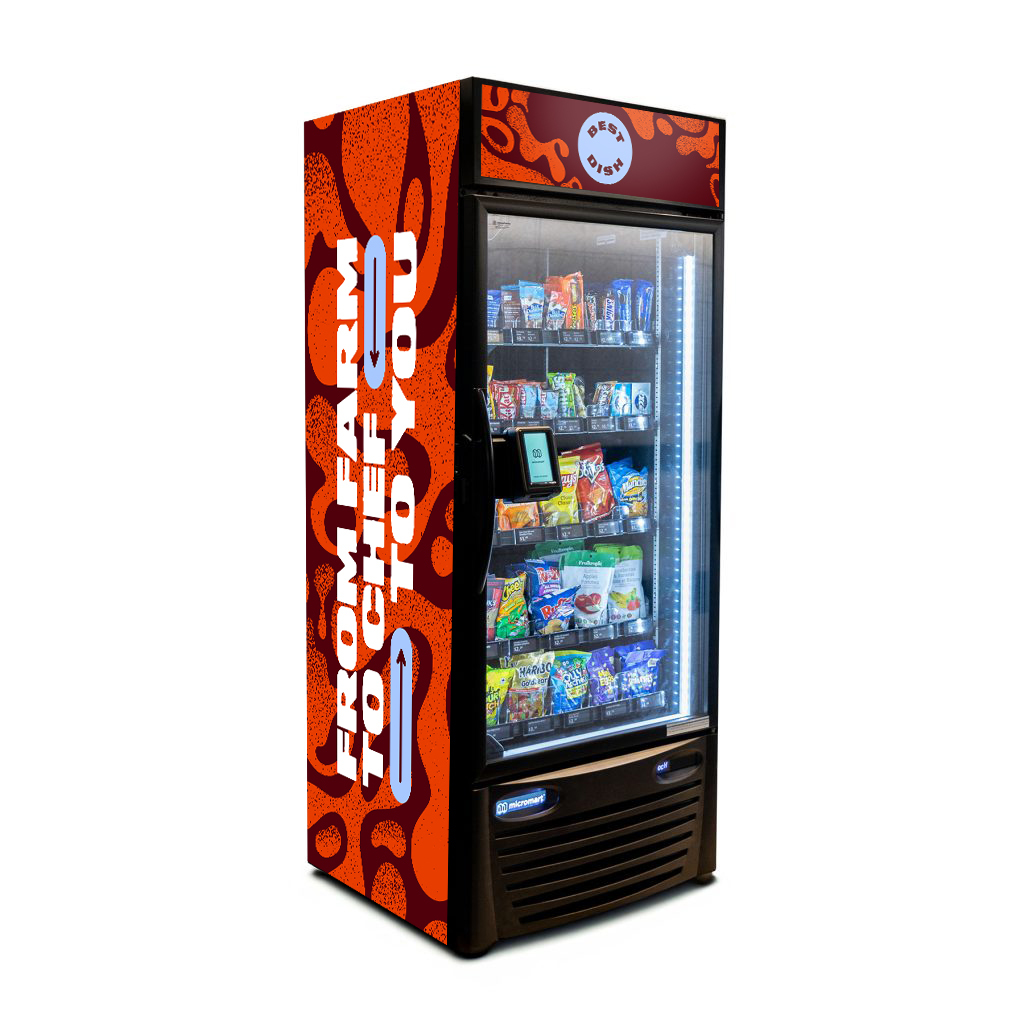
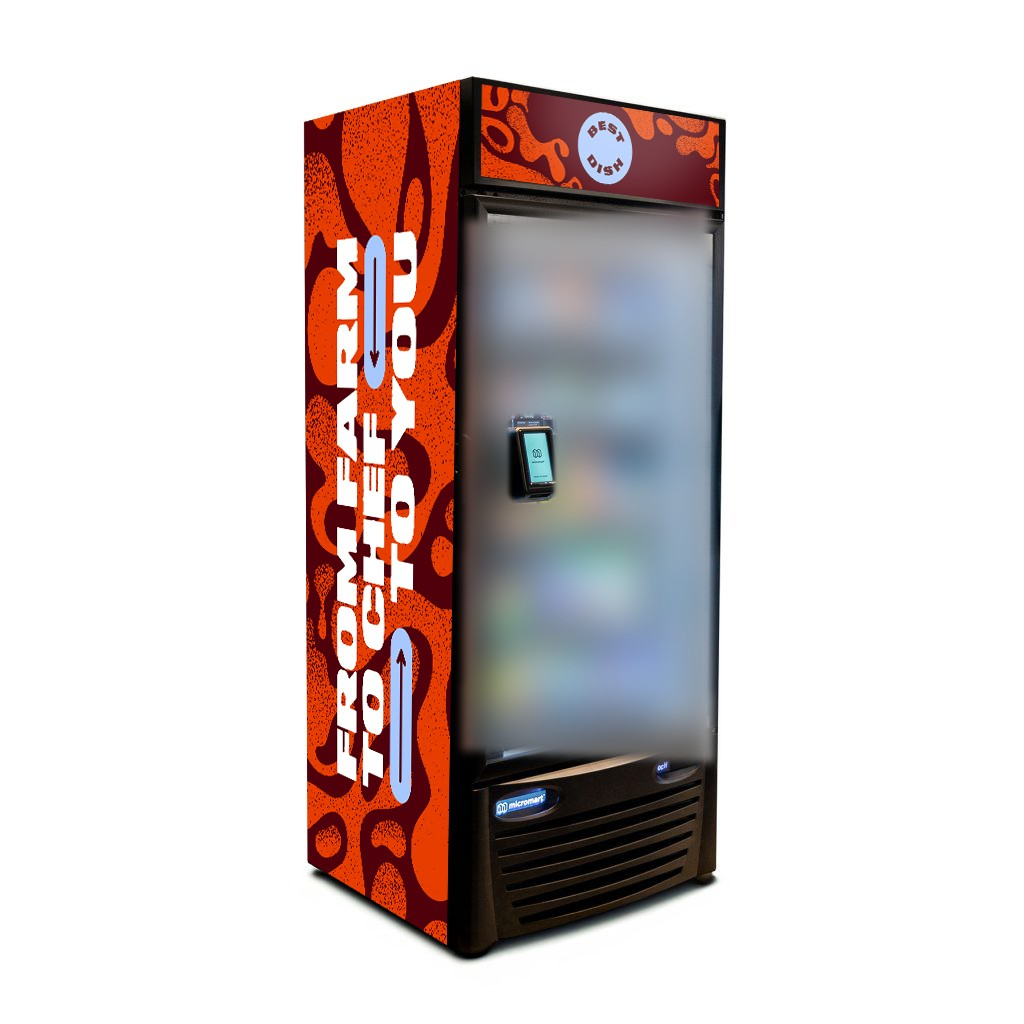
Fix portrait cropping; frost freezer glass
- Chef portraits (chefs grid + dish pages) crop from the top of the frame so heads stay in view
- Freezer mockup: frosted-glass blur over the interior so third-party snack products aren't visible; payment terminal kept sharp

diff --git a/css/site.css b/css/site.css
@@ -223,7 +223,7 @@
 @media (min-width: 640px) { .bd-people { grid-template-columns: repeat(2, 1fr); } }
 @media (min-width: 1024px) { .bd-people { grid-template-columns: repeat(3, 1fr); } }
 .bd-person { display: grid; gap: var(--bd-space-3); }
-.bd-person__photo { width: 100%; aspect-ratio: 1; object-fit: cover; border-radius: var(--bd-radius-lg); background: var(--bd-gravy); }
+.bd-person__photo { width: 100%; aspect-ratio: 1; object-fit: cover; object-position: 50% 15%; border-radius: var(--bd-radius-lg); background: var(--bd-gravy); }
 .bd-person__photo--placeholder { display: grid; place-items: center; font-family: var(--bd-font-display); font-weight: 900; text-transform: uppercase; font-size: var(--bd-size-3xl); color: var(--bd-orange); background: var(--bd-gravy); }
 .bd-person__name { font-family: var(--bd-font-display); font-weight: 700; text-transform: uppercase; letter-spacing: var(--bd-track-tight); font-size: var(--bd-size-xl); margin: 0; }
 .bd-person__role { font-family: var(--bd-font-body); font-weight: 900; font-size: var(--bd-size-xs); text-transform: uppercase; letter-spacing: var(--bd-track-wider); color: var(--bd-orange); margin: 0 0 var(--bd-space-2); }
@@ -963,7 +963,7 @@ html:has(.bd-theme--cream) { background: var(--bd-cream); }
 .bd-chefblock { display: grid; gap: var(--bd-space-6); grid-template-columns: 1fr; align-items: center; }
 @media (min-width: 760px) { .bd-chefblock { grid-template-columns: auto 1fr; gap: var(--bd-space-8); } }
 .bd-chefblock__photo { width: 100%; max-width: 240px; }
-.bd-chefblock__photo img { width: 100%; aspect-ratio: 4/5; object-fit: cover; border-radius: var(--bd-radius-lg); display: block; }
+.bd-chefblock__photo img { width: 100%; aspect-ratio: 4/5; object-fit: cover; object-position: 50% 15%; border-radius: var(--bd-radius-lg); display: block; }
 .bd-chefblock__body .bd-pullquote { max-width: 34ch; }
 
 /* ---------- Dish page: restaurant location ---------- */